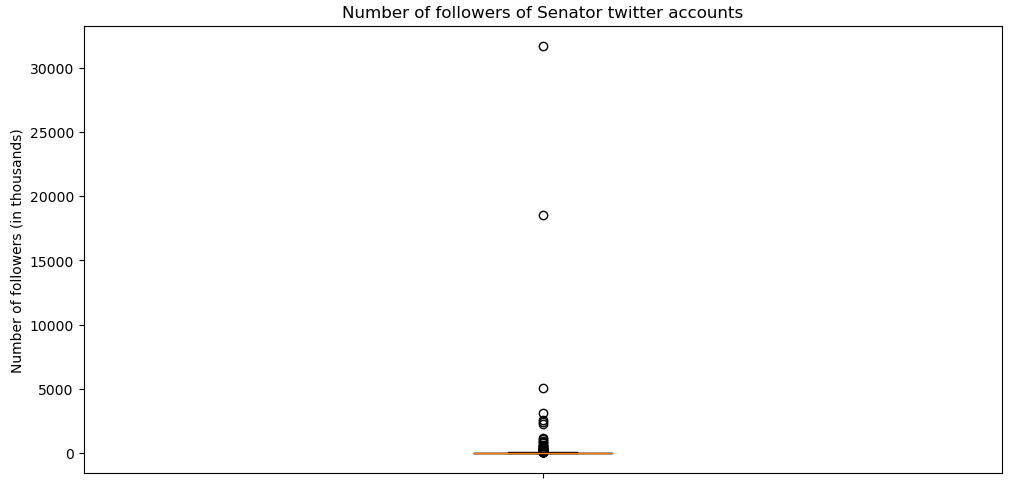
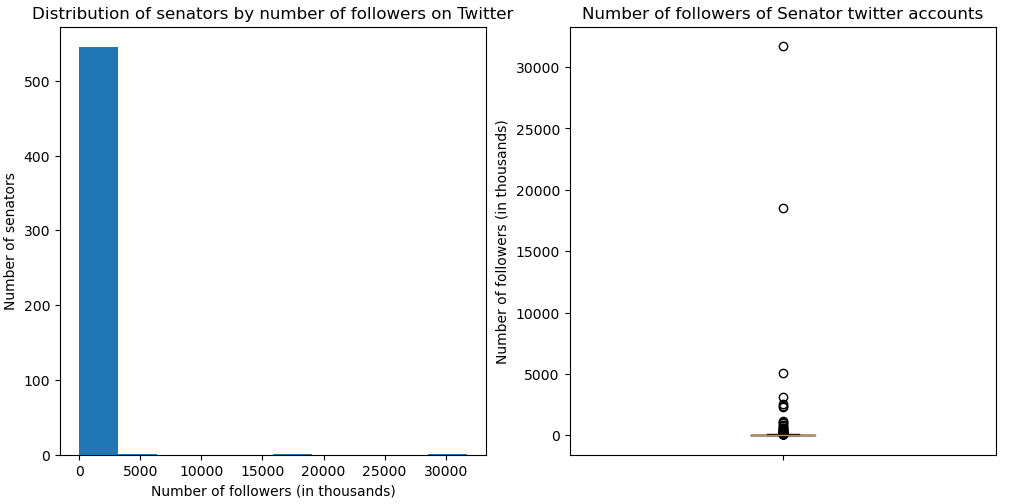
again

diff --git a/src/pages/twitter-analysis-us-senators.js b/src/pages/twitter-analysis-us-senators.js
@@ -283,9 +283,14 @@ const WorkSingle = () => {
                     <p>&emsp; • There are 548 senators that are part of this analysis</p>
                     <p>&emsp; • Most senators have very low twitter following (median 16k) as well as friends (median 800) with a few outliers</p>
                     <p> <img src={imgSenFol} alt="" className="img-fluid w-100"/></p>
+                    <p><img src={imgFrndCount} alt="" className="img-fluid w-100"/></p>
                     <p>&emsp;• Top 5 in terms of following and friends and number of tweets below :</p>
-                      <p><img src={imgFolCount} alt="" className="img-fluid w-100"/></p>
-                      <p><img src={imgFrndCount} alt="" className="img-fluid w-100"/></p>
+                      <Row>
+                          <Col><p><img src={imgFolCount} alt="" className="img-fluid w-100"/></p></Col>
+                          <Col><p><img src={imgFolCount} alt="" className="img-fluid w-100"/></p></Col>
+                          <Col><p><img src={imgFolCount} alt="" className="img-fluid w-100"/></p></Col>
+                      
+                      </Row>
                       
                     <p>&emsp;• Most senators have tweeted less than 3k times (median is 2.7k) over 2008-2017</p>
                     <p> Insert image here</p>
